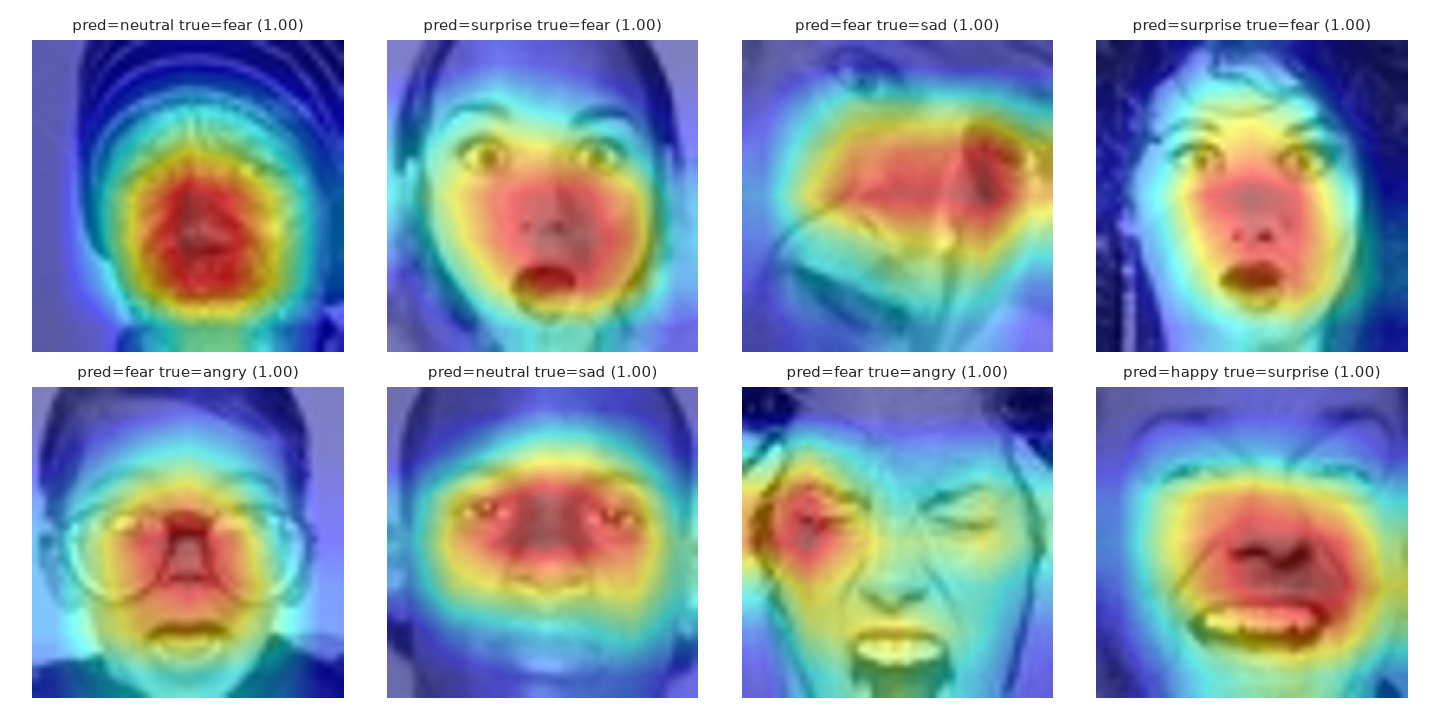
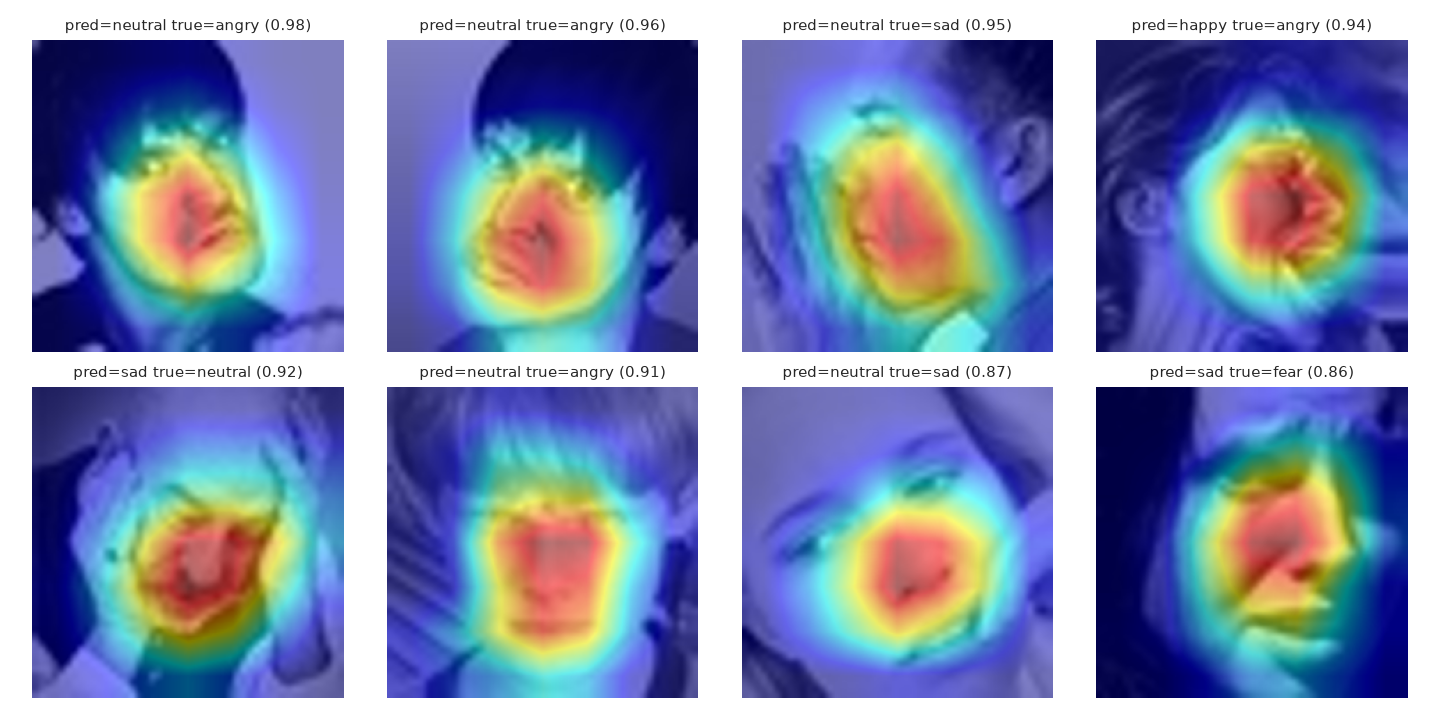
docs: rewrite around the FER+ labels, the new numbers and reproducible training
README, results, API and browser-demo pages now report the FER+ model measured
from models-v1.3.0 (accuracy, calibration, int8, latency, memory, crop proxy),
explain why FER+ and why no class weights, define what a serving-contract change
is for model versions, and credit FER+ in NOTICE. Images regenerated.

diff --git a/docs/results.md b/docs/results.md
@@ -1,29 +1,43 @@
 # Results
 
-Latest run: trained 2026-10-01 with the training code at `a672782` and the default seed (42), the same code and seed as the previous run, which this one replaces. It ran all 30 epochs without triggering early stopping; the best validation macro-F1 of **0.6842** was reached at epoch 28.
+Latest model: `models-v1.3.0`, trained on the FER+ labels with the code at `b1f911d`, seed 42 and the recipe in `configs/default.yaml`. It ran all 30 epochs; validation loss was lowest at epoch 28 (0.4416), which is the checkpoint that was kept.
+
+## Why FER+
+
+FER+ is the same 35,887 images as FER-2013 with new labels: about 10 crowd workers voted on every image, instead of the original automated process. The two label sets disagree a lot. Among the images FER+ keeps, only 64.9% of the training labels and 64.6% of the test labels are the same as in FER-2013, and the gap is largest on the rare classes: of the 515 test images FER-2013 calls `fear`, FER+ agrees on 17%; of the 50 it calls `disgust`, 36%. A model graded against labels that two annotation processes disagree on a third of the time is graded mostly on the noise, so the headline numbers use FER+.
+
+What is dropped and how it is used (`preprocess_ferplus`):
+
+- Rows whose majority vote is `contempt`, `unknown` or not-a-face are removed, which leaves 28,224 training, 3,529 validation and 3,519 test images (of 28,709, 3,589 and 3,589).
+- Training uses the vote fractions of the seven classes as soft targets with plain cross-entropy. Validation and test use the majority vote, as in the [FER+ paper](https://arxiv.org/abs/1608.01041), which reports 83.9% to 85.0% with a VGG13 on 64x64 images over eight classes (a different setup, so the numbers are only a sanity check).
+- Not done: the paper's outlier-vote rejection (resetting emotions with fewer than two votes before normalizing) and an eighth `contempt` class.
 
 ## Test set
 
+FER+ test labels (3,519 images):
+
 | Metric   | Value  |
 |----------|--------|
-| Accuracy | 0.7074 |
-| Macro-F1 | 0.7090 |
+| Accuracy | 0.8588 |
+| Macro-F1 | 0.7702 |
 
-The previous run with the same code and seed scored 0.7122 and 0.7153. Training only calls `torch.manual_seed` and does not enable deterministic CUDA kernels, so runs are not bit-reproducible, and with 3,589 test images the standard error of the accuracy is about 0.8 points. A gap of half a point between two single runs is within that noise; averaging several seeds would be needed to tell real changes from it.
+On the original FER-2013 test labels (3,589 images) the same model gets 0.6121 accuracy and 0.5351 macro-F1, against 0.7074 and 0.7090 for the previous model (`models-v1.2.0`), which was trained on those labels. These two comparisons are different tasks and neither says one model is better than the other. On the FER+ test labels the previous model scores 0.6300 and 0.5644.
 
-## Per-class (test set)
+Runs are reproducible on the same hardware: two 1-epoch runs with this seed gave identical losses and accuracies to every digit (this is what the seeding in `training/train.py` is for, and the check that found a late seed in an earlier version). A different GPU or driver can still change low-order digits. With 3,519 test images the standard error of the accuracy is about 0.6 points, and the final number comes from one seed.
+
+## Per-class (FER+ test set)
 
 | Emotion  | Precision | Recall | F1    | Support |
 |----------|-----------|--------|-------|---------|
-| angry    | 0.626     | 0.646  | 0.636 | 491     |
-| disgust  | 0.840     | 0.764  | 0.800 | 55      |
-| fear     | 0.590     | 0.589  | 0.590 | 528     |
-| happy    | 0.910     | 0.866  | 0.887 | 879     |
-| sad      | 0.565     | 0.544  | 0.554 | 594     |
-| surprise | 0.808     | 0.820  | 0.814 | 416     |
-| neutral  | 0.657     | 0.709  | 0.682 | 626     |
+| angry    | 0.890     | 0.791  | 0.838 | 359     |
+| disgust  | 0.609     | 0.500  | 0.549 | 28      |
+| fear     | 0.775     | 0.474  | 0.588 | 116     |
+| happy    | 0.938     | 0.945  | 0.942 | 933     |
+| sad      | 0.762     | 0.713  | 0.736 | 480     |
+| surprise | 0.833     | 0.902  | 0.866 | 430     |
+| neutral  | 0.845     | 0.901  | 0.872 | 1173    |
 
-`sad` (F1 0.554) and `fear` (0.590) are the weakest classes. `sad` is mostly mistaken for `neutral` (18% of its samples), `angry` (12%) and `fear` (11%); `fear` for `sad` (15%) and `angry` (11%). `happy` (0.887) and `surprise` (0.814) are the strongest. `disgust` scores 0.800 but has by far the smallest support (55 test samples), so its F1 is noisier than the others.
+`happy` (F1 0.942), `neutral` (0.872) and `surprise` (0.866) are the strongest. `fear` (0.588) and `disgust` (0.549) are the weakest, and for the same reason: they are rare in training (807 and 236 images of 28,224) and the model under-predicts them (recall 0.47 and 0.50, precision 0.78 and 0.61). `fear` goes to `surprise` in 31% of cases and to `sad` in 11%; `disgust` goes to `angry` in 21% and to `neutral` in 14%; `sad` goes to `neutral` in 22%. `disgust` has only 28 test images, so its numbers move by several points with a handful of images.
 
 ![Confusion matrix](images/confusion_matrix.png)
 
@@ -31,66 +45,75 @@ The previous run with the same code and seed scored 0.7122 and 0.7153. Training 
 
 ![Training curves](images/training_curves.png)
 
-The model overfits: validation loss is lowest at epoch 4 (1.03) and climbs to 1.48 while training loss falls to 0.05, and the final training accuracy is 0.959 against 0.690 on validation. Validation macro-F1 keeps creeping up and plateaus around 0.68 from epoch 22 on, which is why early stopping on that metric never fires. Stronger regularization or earlier stopping on validation loss are the obvious next experiments.
+The model still overfits, less than before: at the kept epoch the validation loss is 0.4416 and it stays flat to epoch 30 (0.4437), while training loss falls to 0.613 and the final training accuracy is 0.921 against 0.851 on validation. Validation macro-F1 (0.765 at the end, 0.772 at best) is noisy because of `disgust`.
 
 Regenerate this table and these plots for a new run with:
 
 ```bash
-uv run python scripts/evaluate.py --checkpoint checkpoints/best.pt --split test
+uv run python scripts/evaluate.py --checkpoint checkpoints/ferplus/best.pt --processed-dir data/processed_ferplus --split test
 ```
 
-which writes `reports/test_metrics.json` and fresh plots to `reports/`. `reports/` itself is not tracked; to update the images above, copy the new PNGs into `docs/images/` and commit them.
+which writes `reports/test_metrics.json` and fresh plots to `reports/` (`--reports-dir` to choose another folder). `reports/` itself is not tracked; to update the images above, copy the new PNGs into `docs/images/` and commit them.
+
+## Recipe: why no class weights
+
+The first FER+ runs used what the FER-2013 model used: a weighted sampler, class weights in the loss and early stopping on macro-F1. They reached 72.3% accuracy (and 70.1% with the sampler off and the weights on), 12 to 15 points below the plain recipe, because the inverse-frequency weight of `disgust` is about 17 against about 0.5 for `happy`. With 236 noisy training images the model could not learn the class, only that predicting it is cheap: on the test set `disgust` had recall 0.86 and precision 0.09. Turning off both the sampler and the weights, and stopping on validation loss, gave 84.7% and then 85.9% with the seeding fix. The paper does not use class weights either, and reports poor `disgust` and `contempt` for the same reason. The recipe was chosen after looking at per-class test results of the two weighted runs, not only validation results, so the test numbers are not a clean hold-out for that one decision.
 
 ## Grad-CAM
 
-Grad-CAM++ heatmaps over `model.layer4`, on the logit of the predicted class, for the 8 most confident correct predictions and the 8 most confident misclassifications on the test set.
+Grad-CAM++ heatmaps over `model.layer4`, on the logit of the predicted class, for the 8 most confident correct predictions and the 8 most confident misclassifications on the FER+ test set.
 
 ![Grad-CAM, correctly classified](images/gradcam_correct.png)
 
-Correct predictions concentrate on the mouth and nose, with the eyebrows and eyes also lit up for `angry` and `disgust`: the central face region that carries most of the expression.
+The 8 most confident correct predictions are all `happy` at 1.00. The heat sits on the mouth, nose and cheeks, with little on the eyes: the model reads `happy` from the lower half of the face.
 
 ![Grad-CAM, confident misclassifications](images/gradcam_misclassified.png)
 
-The confident mistakes are mostly `fear` and `sad`/`angry` samples. Several involve an open mouth (`fear` read as `surprise`), glasses, a tilted or partly out-of-frame face, or a wink, where the heat lands on the glasses rim or on one eye instead of the whole expression. That is consistent with `fear`, `sad` and `angry` being the weakest and most-confused classes above.
+Five of the 8 confident mistakes are read as `neutral` (true `angry` or `sad`), and the others as `happy` and `sad`. Several involve a hand on the face or a strongly tilted head, and the heat covers the whole central face instead of a feature. That fits the confusion matrix: the model's errors are mostly toward `neutral`.
 
 Regenerate with:
 
 ```bash
-uv run python scripts/gradcam_report.py --checkpoint checkpoints/best.pt --split test
+uv run python scripts/gradcam_report.py --checkpoint checkpoints/ferplus/best.pt --processed-dir data/processed_ferplus --split test
 ```
 
 ## Calibration
 
-The model is overconfident: on the test set 38.3% of its predictions come with a confidence above 0.99, and its mean confidence is 0.876 against a 0.707 accuracy. Temperature scaling divides the logits by one scalar before the softmax, which changes the confidences but never the predicted class, so accuracy is untouched. The temperature is fitted on the validation split only (T = 2.40, 3,589 images) and evaluated on the test set.
+This model is under-confident, the opposite of the previous one: on the test set its mean confidence is 0.768 against a 0.859 accuracy (soft-label training is a likely cause). Temperature scaling divides the logits by one scalar before the softmax, which changes the confidences but never the predicted class, so accuracy is untouched. The temperature is fitted on the validation split only (T = 0.674, 3,529 images, so it sharpens) and evaluated on the test set.
 
 | Split | Probabilities | Accuracy | ECE | NLL | Brier | Mean confidence |
 |-------|---------------|----------|-----|-----|-------|-----------------|
-| val | softmax | 0.688 | 0.185 | 1.319 | 0.491 | 0.873 |
-| val | T = 2.40 | 0.688 | 0.016 | 0.917 | 0.434 | 0.684 |
-| test | softmax | 0.707 | 0.168 | 1.209 | 0.461 | 0.876 |
-| test | T = 2.40 | 0.707 | 0.022 | 0.867 | 0.415 | 0.687 |
+| val | softmax | 0.852 | 0.086 | 0.442 | 0.228 | 0.767 |
+| val | T = 0.674 | 0.852 | 0.020 | 0.407 | 0.214 | 0.841 |
+| test | softmax | 0.859 | 0.092 | 0.436 | 0.225 | 0.768 |
+| test | T = 0.674 | 0.859 | 0.021 | 0.398 | 0.210 | 0.844 |
 
-ECE is the expected calibration error of the top-label confidence over 15 bins; NLL and Brier are proper scoring rules, lower is better. After calibration the confidence tracks accuracy: in the exported model's test predictions, accuracy is 0.939 when confidence is at least 0.9 (725 images), 0.835 between 0.7 and 0.9 (1,095), 0.630 between 0.5 and 0.7 (939) and 0.427 below 0.5 (830).
+ECE is the expected calibration error of the top-label confidence over 15 bins; NLL and Brier are proper scoring rules, lower is better. After calibration the confidence tracks accuracy: in the shipped int8 model's test predictions, accuracy is 0.981 when confidence is at least 0.9 (1,863 images), 0.813 between 0.7 and 0.9 (880), 0.647 between 0.5 and 0.7 (614) and 0.438 below 0.5 (162).
 
 ![Reliability diagram](images/reliability_diagram.png)
 
-Limits: a single temperature cannot fix everything. The middle of the curve ends up slightly under-confident, and training used balanced sampling, so per-class biases from that prior shift are not corrected. The calibration holds for data like FER-2013's validation split, not necessarily for photos from another population.
+Limits: a single temperature cannot fix everything, and the calibration holds for data like FER+'s validation split, not necessarily for photos from another population. The temperature is fitted on the fp32 model's validation logits and used as is for the int8 model.
 
 Regenerate with:
 
 ```bash
-uv run python scripts/calibrate.py --checkpoint checkpoints/best.pt
+uv run python scripts/calibrate.py --checkpoint checkpoints/ferplus/best.pt --processed-dir data/processed_ferplus
 ```
 
 ## Quantization
 
 The shipped classifier is quantized to int8 after export: static QDQ quantization with per-channel weights, MinMax calibration on 1,000 random training faces, 7-bit range, and the softmax kept in float so `probs` stay exact. The graph, its three outputs and the temperature metadata are unchanged, so nothing downstream knows the difference except the size and the speed. `scripts/quantize_onnx.py` refuses to write a model that agrees with the fp32 one on fewer than 95% of 1,000 validation faces or loses more than a point of accuracy.
 
-| Model | Test accuracy | Macro-F1 | ECE (T refit on val) | Size | One image (2 threads) |
-|-------|---------------|----------|----------------------|------|-----------------------|
-| fp32 | 0.7080 | 0.7095 | 0.0234 (T = 2.395) | 44.7 MB | 17.2 ms |
-| int8 | 0.7055 | 0.7062 | 0.0210 (T = 2.403) | 11.3 MB | 5.8 ms |
+| Model | Test accuracy | Macro-F1 | ECE (stored T) | Size | One image (2 threads) |
+|-------|---------------|----------|----------------|------|-----------------------|
+| PyTorch checkpoint | 0.8588 | 0.7702 | 0.0209 | n/a | 23.4 ms |
+| fp32 ONNX | 0.8588 | 0.7702 | 0.0209 | 44.7 MB | 15.6 ms |
+| int8 ONNX | 0.8556 | 0.7690 | 0.0146 | 11.3 MB | 5.3 ms |
 
-Accuracy, macro-F1 and calibration stay within noise (the standard error of the accuracy is about 0.8 points); 96.3% of predictions equal the fp32 ones, and the Grad-CAM++ maps correlate 0.9986 with the fp32 maps (worst face 0.992). The temperature refit on the int8 logits is within 0.01 of the stored one, so the T stored in the model (2.395) was kept. The fp32 model is still published in the model release for tests and comparison.
+int8 loses 0.3 points of accuracy (about half the standard error of the test set), and 98.0% of its predictions equal the fp32 ones. Latency is the p50 of 200 runs of one 224x224 image on 2 threads, on the same machine as the API benchmark. The fp32 model is still published in the model release for tests and comparison. The Grad-CAM++ agreement between fp32 and int8 was not re-measured for this model.
 
-**Why the 7-bit range matters.** With the default 8-bit range the same model looked just as good on the development machine (one with AVX-VNNI) and was badly wrong on a GitHub runner: AVX2 CPUs without VNNI saturate an int16 intermediate in ONNX Runtime's uint8 by int8 kernels, and the runner's probabilities were off by 0.26 and its feature maps by 55% (relative L2). Quantizing with `reduce_range` costs about a quarter of a point of accuracy here and gives results that are bit-identical on both CPUs. int8 kernels still round a few activations differently in ONNX Runtime Web than in native ONNX Runtime, so the browser's probabilities differ from Python's by up to 7e-3.
+**Why the 7-bit range matters.** With the default 8-bit range the same model looked just as good on the development machine (one with AVX-VNNI) and was badly wrong on a GitHub runner: AVX2 CPUs without VNNI saturate an int16 intermediate in ONNX Runtime's uint8 by int8 kernels, and the runner's probabilities were off by 0.26 and its feature maps by 55% (relative L2). That was measured on the first model (`models-v1.2.0`), and the quantization code is the same. Quantizing with `reduce_range` gives results that are bit-identical on both CPUs. int8 kernels still round a few activations differently in ONNX Runtime Web than in native ONNX Runtime, so the browser's probabilities differ from Python's slightly (the golden tests allow up to 1e-2).
+
+## The previous model
+
+`models-v1.2.0` was trained on the original FER-2013 labels with a weighted sampler and loss and early stopping on macro-F1 (`configs/fer2013.yaml`), at `a672782`, before seeding was fixed, so it cannot be reproduced bit for bit. On the FER-2013 test labels (3,589 images) it scores 0.7074 accuracy and 0.7090 macro-F1, int8 0.7055 and 0.7062, with a temperature of 2.40 (it was over-confident: ECE 0.168 before, 0.022 after). The tables of that version are in the git history of this file.

diff --git a/README.md b/README.md
@@ -1,4 +1,4 @@
-# FER-2013
+# FER-2013 images, FER+ labels
 
 A ResNet18 that reads seven facial expressions, trained, calibrated, shrunk to 11 MB and running **entirely in your browser**, live from your camera, with a heatmap of where it looked.
 
@@ -11,9 +11,10 @@ A ResNet18 that reads seven facial expressions, trained, calibrated, shrunk to 1
 | | |
 |---|---|
 | **Nothing leaves the tab** | Face detection, classification and Grad-CAM++ run in WebAssembly. Photo or live camera, every face at once. First visit downloads 26 MB. |
-| **Accurate and honest** | 70.6% accuracy, 0.706 macro-F1 on the FER-2013 test set. Confidences are calibrated (ECE 0.168 to 0.022): when it says 90% or more, it is right 94% of the time. |
-| **Small and fast** | int8 quantization took the model from 44.7 MB to 11.3 MB and made it 3x faster for a quarter of a point of accuracy. |
-| **Torch-free API** | FastAPI on ONNX Runtime in a 365 MB distroless image (it was 742 MB): 10 ms per request, 94 MiB of memory. |
+| **Accurate and honest** | 85.6% accuracy, 0.769 macro-F1 on the FER+ test set (the FER-2013 images with crowd-voted labels, [why](docs/results.md#why-fer)). Confidences are calibrated (ECE 0.092 to 0.021): when it says 90% or more, it is right 98% of the time. Rare classes (`disgust`, `fear`) are the weak spot and the results say so. |
+| **Small and fast** | int8 quantization took the model from 44.7 MB to 11.3 MB and made it about 3x faster for a third of a point of accuracy. |
+| **Torch-free API** | FastAPI on ONNX Runtime in a 365 MB distroless image (it was 742 MB): 13 ms per request, 92 MiB of memory. |
+| **Reproducible** | Training is seeded: two runs on the same hardware give identical numbers. Every run records its config, git commit and a hash of each data array. |
 | **Verified, not assumed** | The JavaScript port is tested against golden files from the Python pipeline: resizing is byte-identical to Pillow, detector boxes match OpenCV (IoU 0.999). |
 
 ## Try it
@@ -42,27 +43,33 @@ photo or camera frame
 The same four steps run in Python (`src/fer_2013/serving`) and in JavaScript (`web/src`). Training:
 
 ```bash
-uv run python scripts/download_data.py --csv-path data/raw/                 # needs Kaggle credentials in .env
-uv run python scripts/preprocess_data.py --csv-path data/raw/fer2013.csv --out-dir data/processed/
-uv run python scripts/train.py --config configs/default.yaml                # weighted sampler + loss, early stopping on macro-F1
-uv run python scripts/evaluate.py --checkpoint checkpoints/best.pt --split test
-uv run python scripts/gradcam_report.py --checkpoint checkpoints/best.pt --split test
-uv run python scripts/calibrate.py --checkpoint checkpoints/best.pt         # temperature scaling on the validation split
-uv run python scripts/export_onnx.py --checkpoint checkpoints/best.pt --out-dir models/ --calibration reports/calibration.json
+uv run python scripts/download_data.py --csv-path data/raw/                 # FER-2013 images; needs Kaggle credentials in .env
+curl -L -o data/raw/fer2013new.csv https://raw.githubusercontent.com/microsoft/FERPlus/master/fer2013new.csv   # FER+ labels
+echo "9206e20d62f56475939f516847d61753e4860caeac9718b560129541b776fc2c  data/raw/fer2013new.csv" | sha256sum -c
+uv run python scripts/preprocess_data.py --csv-path data/raw/fer2013.csv --ferplus-csv data/raw/fer2013new.csv --out-dir data/processed_ferplus/
+uv run python scripts/train.py --config configs/default.yaml                # the shipped recipe; writes checkpoints/ferplus/
+uv run python scripts/evaluate.py --checkpoint checkpoints/ferplus/best.pt --processed-dir data/processed_ferplus --split test
+uv run python scripts/gradcam_report.py --checkpoint checkpoints/ferplus/best.pt --processed-dir data/processed_ferplus --split test
+uv run python scripts/calibrate.py --checkpoint checkpoints/ferplus/best.pt --processed-dir data/processed_ferplus   # temperature scaling on the validation split
+uv run python scripts/export_onnx.py --checkpoint checkpoints/ferplus/best.pt --out-dir models/ --calibration reports/calibration.json
 mv models/fer_resnet18.onnx models/fer_resnet18_fp32.onnx
-uv run python scripts/quantize_onnx.py --model models/fer_resnet18_fp32.onnx --out models/fer_resnet18.onnx
+uv run python scripts/quantize_onnx.py --model models/fer_resnet18_fp32.onnx --out models/fer_resnet18.onnx --data-dir data/processed_ferplus
 ```
+
+Each run writes its checkpoints to `checkpoints/<run name>/` and a `reports/history_*.json` with the config, the git commit and a sha256 per data array. The seed is fixed and cuDNN is deterministic, so the same hardware gives the same run to the digit (another GPU or driver can differ slightly). `configs/fer2013.yaml` is the recipe of the previous model, on the original labels.
 
 Override any config value with `--set section.field=value` (see `configs/default.yaml`).
 
 ## Results
 
-| | Test accuracy | Macro-F1 | ECE | Size | One image |
+| | FER+ test accuracy | Macro-F1 | ECE | Size | One image |
 |---|---|---|---|---|---|
-| fp32 | 0.708 | 0.710 | 0.023 | 44.7 MB | 17.2 ms |
-| **int8 (shipped)** | **0.706** | **0.706** | **0.021** | **11.3 MB** | **5.8 ms** |
+| fp32 | 0.859 | 0.770 | 0.021 | 44.7 MB | 15.6 ms |
+| **int8 (shipped)** | **0.856** | **0.769** | **0.015** | **11.3 MB** | **5.3 ms** |
 
-`happy` (F1 0.89) and `surprise` (0.81) are read well; `sad` (0.55) and `fear` (0.59) are the weak spots, mostly confused with `neutral` and `angry`. Temperature scaling (T = 2.40, fitted on validation only) cut the expected calibration error from 0.168 to 0.022 without changing a single prediction.
+`happy` (F1 0.94), `neutral` (0.87) and `surprise` (0.87) are read well; `disgust` (0.55, only 28 test images) and `fear` (0.59) are the weak spots: rare in training and under-predicted, `fear` mostly taken for `surprise`. Temperature scaling (T = 0.674, fitted on validation only; this model is under-confident) cut the expected calibration error from 0.092 to 0.021 without changing a single prediction.
+
+**Why FER+ labels.** FER+ re-labels the FER-2013 images by a vote of about 10 annotators, and only about 65% of its labels equal the original ones (17% for `fear`). On the original FER-2013 test labels this model scores 61.2%, and the previous model, trained on them, 70.7%: different targets, so the two numbers are not comparable. [The comparison, the paper's 84 to 85% and the recipe that got there](docs/results.md#why-fer).
 
 <p>
 <img src="docs/images/confusion_matrix.png" width="49%" alt="Confusion matrix on the test set">
@@ -89,7 +96,7 @@ One result per detected face: box, emotion, calibrated probabilities and, with `
 
 ## Limitations and privacy
 
-- About 71% accuracy on an acted, noisy dataset. Emotion labels read off a face are not a reliable read of how someone feels: do not use this for decisions about people.
+- About 86% accuracy on FER+ labels, 61% on the original FER-2013 labels, over acted and web-scraped faces with noisy annotations; `disgust` and `fear` are under-predicted. Emotion labels read off a face are not a reliable read of how someone feels: do not use this for decisions about people.
 - The model was trained on 48x48 grayscale faces. A webcam in poor light or at an angle is read worse than the test set suggests, and `neutral` tends to win.
 - Confidences move a few points with a few pixels of crop. Small faces in a large crowd photo can be missed (detection runs at up to 640 px).
 - Uploads are processed in memory and never written to disk or logged; the browser demo sends nothing anywhere. The page is under a strict CSP; the worker that touches the pixels is same-origin code with no network calls, but GitHub Pages cannot send CSP headers for workers, so the browser does not enforce that part.
@@ -114,7 +121,7 @@ serving/models.sha256           pinned hashes of every model the image and the s
 
 ## Releases
 
-`v*` tags are the application; `models-v*` tags are the trained weights, published as **pre-releases on purpose**: the Dockerfile, CI and the site download from them, so they must stay. Model versions: major for a contract change, minor for a retrain or re-quantization, patch for a re-export.
+`v*` tags are the application; `models-v*` tags are the trained weights, published as **pre-releases on purpose**: the Dockerfile, CI and the site download from them, so they must stay. Model versions: major for a contract change (a different input, preprocessing, output name or class set or order), minor for a retrain or re-quantization (the meaning of the labels can change, as it did in v1.3.0: say so in the release notes), patch for a re-export.
 
 ## Development
 
@@ -130,4 +137,4 @@ uv run pre-commit install                           # ruff + mypy on commit, tes
 
 ## License
 
-[MIT](LICENSE) from v0.2.0 (v0.1.0 and v0.1.1 were published under the AGPL-3.0 and stay under it). The data is the [FER-2013 mirror on Kaggle](https://www.kaggle.com/datasets/deadskull7/fer2013) (CC0); third-party attributions are in [NOTICE](NOTICE).
+[MIT](LICENSE) from v0.2.0 (v0.1.0 and v0.1.1 were published under the AGPL-3.0 and stay under it). The images are the [FER-2013 mirror on Kaggle](https://www.kaggle.com/datasets/deadskull7/fer2013) (CC0) and the labels are [FER+](https://github.com/microsoft/FERPlus) (Microsoft, MIT; Barsoum et al., ICMI 2016); third-party attributions are in [NOTICE](NOTICE).

diff --git a/docs/api.md b/docs/api.md
@@ -26,9 +26,9 @@ curl -F "file=@photo.jpg" "http://localhost:7860/predict?explain=true"
 
 ```bash
  export the trained checkpoint (needs torch), quantize it, and fetch the face detector
-uv run python scripts/export_onnx.py --checkpoint checkpoints/best.pt --out-dir models/
+uv run python scripts/export_onnx.py --checkpoint checkpoints/ferplus/best.pt --out-dir models/ --calibration reports/calibration.json
 mv models/fer_resnet18.onnx models/fer_resnet18_fp32.onnx
-uv run python scripts/quantize_onnx.py --model models/fer_resnet18_fp32.onnx --out models/fer_resnet18.onnx
+uv run python scripts/quantize_onnx.py --model models/fer_resnet18_fp32.onnx --out models/fer_resnet18.onnx --data-dir data/processed_ferplus
 ONLY_YUNET=1 scripts/fetch_models.sh models serving/models.sha256
 MODELS_DIR=models uv run uvicorn fer_2013.serving.api:create_app --factory --port 7860
 ```
@@ -40,7 +40,9 @@ docker build -t fer-api .
 docker run --rm -p 7860:7860 fer-api
 ```
 
-To publish a new model: run `scripts/calibrate.py` and the export with `--calibration`, `gh release create models-vX.Y.Z models/fer_resnet18.onnx models/fer_fc_weight.npy` (model releases use `models-v*` tags so they don't trigger the app's `v*` deploy; bump major when the serving contract changes, such as architecture, input normalization or labels, minor for a retrain, patch for a re-export), append their `sha256sum` lines to `serving/models.sha256`, and point `RELEASE_URL` in the `Dockerfile` at the new tag. CI tests, builds the image and smoke tests it. The image runs anywhere Docker does; the public demo is the [browser build](browser-demo.md), which needs no server.
+To publish a new model: run `scripts/calibrate.py` and the export with `--calibration`, `gh release create models-vX.Y.Z --prerelease models/fer_resnet18.onnx models/fer_resnet18_fp32.onnx models/fer_fc_weight.npy` (model releases use `models-v*` tags so they don't trigger the app's `v*` deploy, and are pre-releases because the Dockerfile, CI and the site download from them), replace the `fer_resnet18.onnx` and `fer_fc_weight.npy` lines of `serving/models.sha256` with their `sha256sum`, and point `RELEASE_URL` in the `Dockerfile` at the new tag. Regenerate the web golden files (`scripts/make_web_golden.py`) and the hardcoded values in `web/tests/npy.test.js`, which depend on the model.
+
+**Versioning.** The serving contract is the model's interface: the input (48x48 grayscale face, preprocessing and normalization), the output names `logits`, `features` and `probs`, the `temperature` metadata, and the class set and order. Changing any of them is a major version. A retrain that keeps the interface is a minor version even when it changes what the predictions mean: `models-v1.3.0` moved from the FER-2013 labels to the FER+ labels, so the same face can get a different emotion than with v1.2, and its release notes say so. A re-export or re-quantization of the same weights is a patch. CI tests, builds the image and smoke tests it. The image runs anywhere Docker does; the public demo is the [browser build](browser-demo.md), which needs no server.
 
 ## Grad-CAM++ without PyTorch
 
@@ -48,15 +50,15 @@ The head is `avgpool -> Dropout -> Linear`, so in eval mode the gradient of a cl
 
 ## Performance
 
-The shipped int8 model scores 70.55% on the full test set through the ONNX Runtime pipeline with the serving preprocessing, against 70.80% for the fp32 ONNX model and 70.74% for PyTorch (see [Quantization](results.md#quantization)).
+The shipped int8 model scores 85.56% on the full FER+ test set through ONNX Runtime, against 85.88% for both the fp32 ONNX model and PyTorch (see [Quantization](results.md#quantization)).
 
 Latency measured with `scripts/benchmark.py` against the Docker image (a 260x260 image with one face; `p50` / `p95` of the full request). On a 12th Gen Intel i5-12450HX with no CPU limit, 60 requests:
 
 | Request            | p50 (ms) | p95 (ms) |
 |--------------------|----------|----------|
-| `explain=false`    | 10.4     | 11.3     |
-| `explain=true`     | 14.5     | 16.3     |
+| `explain=false`    | 12.6     | 13.7     |
+| `explain=true`     | 14.8     | 17.0     |
 
-Restricted to the size of a typical free hosting tier (`docker run --cpus 0.1 --memory 512m`, 15 requests): about 1.3 s p50 without `explain` and 1.6 s with it, a boot of about 33 s, and 94 MiB of memory in use. It fits a 512 MB instance with room to spare. (With the fp32 model and OpenCV it was 1.8 to 2.0 s and 212 MiB.) The detector session is single-threaded on purpose: two ONNX Runtime threads busy-waiting on a tenth of a core made it three times slower.
+Restricted to the size of a typical free hosting tier (`docker run --cpus 0.1 --memory 512m`, 15 requests): about 1.1 s p50 without `explain` and 1.4 s with it (15 requests, so p95 is only indicative: 2.2 s and 1.9 s), a boot of about 25 s, and 92 MiB of memory in use. It fits a 512 MB instance with room to spare. (With the fp32 model and OpenCV it was 1.8 to 2.0 s and 212 MiB.) The detector session is single-threaded on purpose: two ONNX Runtime threads busy-waiting on a tenth of a core made it three times slower.
 
-Classifier alone, one 224x224 image, 2 threads: int8 5.8 ms p50, fp32 17.2 ms, PyTorch 24.1 ms. The Docker image is 365 MB on disk and 94 MB compressed (162 MB of Python packages, 11 MB of models, Python itself and a distroless base for the rest). The base is `gcr.io/distroless/cc-debian12:nonroot`: no shell, no package manager, running as a non-root user; the build copies in the Python runtime and only the shared libraries it needs. It has no OpenCV: YuNet runs on ONNX Runtime with the decoding and NMS in numpy (`serving/detector.py`), and a test checks its boxes against `cv2.FaceDetectorYN`. Together with the int8 model that took the image from 742 MB. An environment with PyTorch and its CUDA wheels is over 4 GB.
+Classifier alone, one 224x224 image, 2 threads: int8 5.3 ms p50, fp32 15.6 ms, PyTorch 23.4 ms. The Docker image is 365 MB on disk and 94 MB compressed (162 MB of Python packages, 11 MB of models, Python itself and a distroless base for the rest). The base is `gcr.io/distroless/cc-debian12:nonroot`: no shell, no package manager, running as a non-root user; the build copies in the Python runtime and only the shared libraries it needs. It has no OpenCV: YuNet runs on ONNX Runtime with the decoding and NMS in numpy (`serving/detector.py`), and a test checks its boxes against `cv2.FaceDetectorYN`. Together with the int8 model that took the image from 742 MB. An environment with PyTorch and its CUDA wheels is over 4 GB.

diff --git a/docs/browser-demo.md b/docs/browser-demo.md
@@ -10,7 +10,7 @@ How it works:
 - The models are downloaded on first use, checked against their sha256 and kept in the browser cache, so later visits do not download them again.
 - Measured in Chromium on a desktop, with one face: detection about 11 ms, classification about 125 ms, Grad-CAM++ about 4 ms; roughly 100 ms more per extra face. A first visit downloads about 26 MB (the 11 MB model and the 14 MB runtime).
 - PNGs with transparency: the browser's canvas stores premultiplied alpha, so fully transparent pixels reach the model as black, whereas Pillow keeps the stored RGB. Opaque images are unaffected.
-- A JPEG decoded by Chromium gives probabilities that differ from Pillow's by 6e-8 on the example photo, and the same box. Other browsers may decode JPEG slightly differently.
+- A JPEG decoded by Chromium gives probabilities that differ negligibly from Pillow's on the example photo (the golden tests allow 1e-2), and the same box. Other browsers may decode JPEG slightly differently.
 
 Build and run it locally:
 
@@ -25,9 +25,9 @@ The site is published to GitHub Pages from `main` by `.github/workflows/pages.ym
 
 ## Limitations and privacy
 
-- The classifier reaches about 71% accuracy on FER-2013 (see [results](results.md)), its confidences are calibrated on that dataset's validation split only, and it inherits the dataset's biases: acted or web-scraped expressions, uneven demographics, noisy labels. Emotion labels from a face are not a reliable read of how someone feels. Do not use this for decisions about people.
-- The confidence moves with the crop: three copies of the same face in one image got 73.5%, 78.7% and 80.6% (the browser and Python agree on all three), because the detector boxes differ by a few pixels.
-- Faces from a detector are cropped square with a 10% margin before classification. On 1,476 FER test faces upscaled 4x (98% of 1,500 detected), classifying the detector crop scores 68.9% against 69.5% for the original 48x48 image on the same faces, and margins from 0% to 40% all land between 68.6% and 68.9%. So the crop costs about 0.6 points and the margin hardly matters. This is a proxy built from FER faces, not a benchmark on real photos.
+- The classifier reaches about 86% accuracy on the FER+ test labels and 61% on the original FER-2013 labels (see [results](results.md)), its confidences are calibrated on FER+'s validation split only, and it inherits the dataset's biases: acted or web-scraped expressions, uneven demographics, noisy labels. `disgust` and `fear` are rare in training and under-predicted. Emotion labels from a face are not a reliable read of how someone feels. Do not use this for decisions about people.
+- The confidence moves with the crop: copies of the same face in one image get slightly different confidences because the detector boxes differ by a few pixels (the browser and Python agree on each). This was measured with the previous model and not repeated for the current one.
+- Faces from a detector are cropped square with a 10% margin before classification. On the first 1,500 FER+ test faces upscaled 4x (1,480 detected, 98.7%), classifying the detector crop scores 85.2% against 85.3% for the original 48x48 image on the same faces, and margins from 0% to 40% all land between 85.0% and 85.2%. So the crop costs about 0.1 points and the margin hardly matters. This is a proxy built from FER faces (the first 1,500 test images, not a random sample), not a benchmark on real photos.
 - Uploaded images are processed in memory and never written to disk or logged. Uploads are limited to 5 MB and JPEG, PNG or WebP.
 - The service is public and unauthenticated; it caps concurrent work and answers `503` when busy.
 - Neither the API nor the browser demo caps the number of faces: every face the detector finds is classified, so a crowd takes proportionally longer (the browser classifies 16 faces per batch). Detection runs on the image downscaled to at most 640 px on the long side, so small faces in a large crowd photo can be missed.
